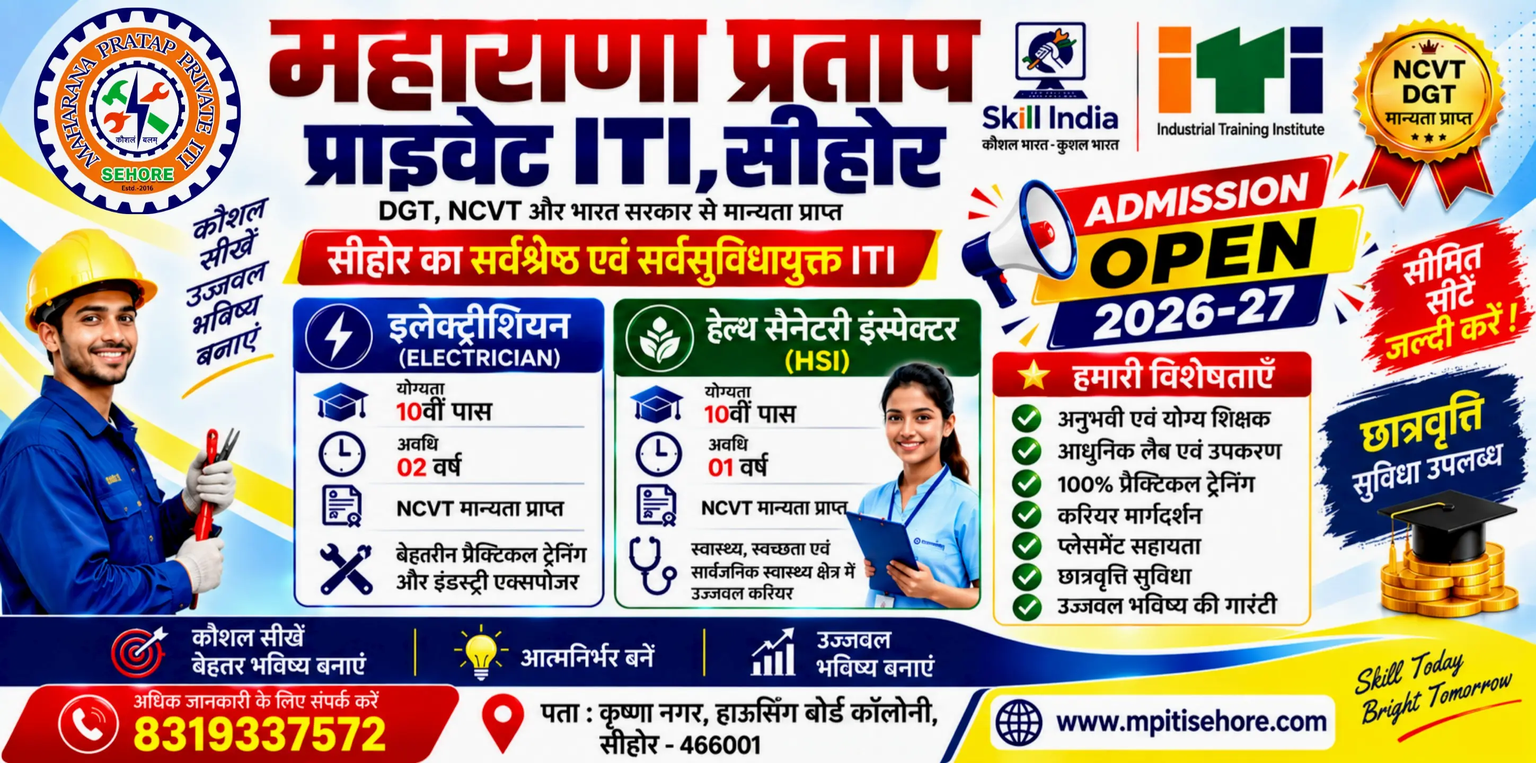
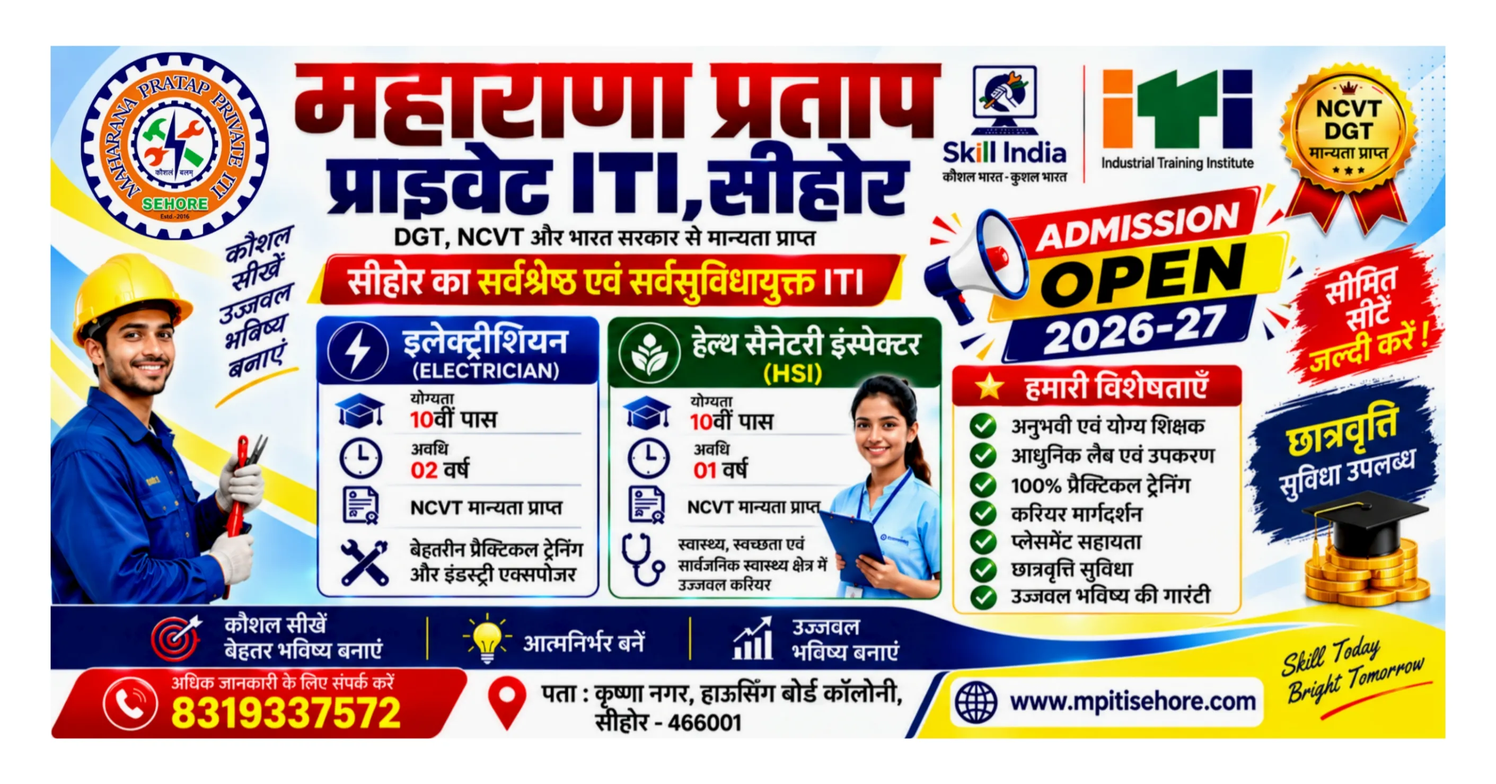
update website

diff --git a/index.html b/index.html
@@ -158,6 +158,10 @@
                 src="images/dgt 2.webp"
                 alt="Directorate General of Training"
             >
+             <img
+                src="images/ncvet-Logo.webp"
+                alt="Directorate General of Training"
+            >
 
         </div>
 
@@ -2013,8 +2017,14 @@
 
             <p>
                 <span>📍</span>
-                Krishna Nagar, Shanti Vihar Colony,
-                Housing Board Sehore, Madhya Pradesh
+                <a
+                        href="https://maps.app.goo.gl/kT3zE88vcfjoDDGWA"
+                        target="_blank"
+                        rel="noopener noreferrer"
+                        class="contact-detail-item"
+                    > Krishna Nagar, Shanti Vihar Colony,
+                Housing Board Sehore, Madhya Pradesh</a>
+                
             </p>
 
             <p>

diff --git a/pages/contact.html b/pages/contact.html
@@ -1014,8 +1014,12 @@
 
                 <p>
                     <span>📍</span>
-                    Krishna Nagar, Shanti Vihar Colony,
-                    Housing Board Sehore, Madhya Pradesh
+                                        <a href="https://maps.app.goo.gl/kT3zE88vcfjoDDGWA"
+                        target="_blank"
+                        rel="noopener noreferrer"
+                        class="contact-detail-item"
+                    > Krishna Nagar, Shanti Vihar Colony,
+                Housing Board Sehore, Madhya Pradesh</a>
                 </p>
 
                 <p>

diff --git a/pages/gallery.html b/pages/gallery.html
@@ -870,9 +870,12 @@ document.addEventListener("keydown", function(event) {
             <p>
 
                 <span>📍</span>
-
-                Krishna Nagar, Shanti Vihar Colony,
-                Housing Board Sehore, Madhya Pradesh
+                    <a href="https://maps.app.goo.gl/kT3zE88vcfjoDDGWA"
+                        target="_blank"
+                        rel="noopener noreferrer"
+                        class="contact-detail-item"
+                    > Krishna Nagar, Shanti Vihar Colony,
+                Housing Board Sehore, Madhya Pradesh</a>
 
             </p>
 

diff --git a/pages/computer-lab.html b/pages/computer-lab.html
@@ -746,8 +746,12 @@
 
                 <p>
                     <span>📍</span>
-                    Krishna Nagar, Shanti Vihar Colony,
-                    Housing Board Sehore, Madhya Pradesh
+                        <a href="https://maps.app.goo.gl/kT3zE88vcfjoDDGWA"
+                        target="_blank"
+                        rel="noopener noreferrer"
+                        class="contact-detail-item"
+                    > Krishna Nagar, Shanti Vihar Colony,
+                Housing Board Sehore, Madhya Pradesh</a>
                 </p>
 
                 <p>

diff --git a/pages/administrative-staff.html b/pages/administrative-staff.html
@@ -692,8 +692,12 @@
 
                 <p>
                     <span>📍</span>
-                    Krishna Nagar, Shanti Vihar Colony,
-                    Housing Board Sehore, Madhya Pradesh
+                    <a href="https://maps.app.goo.gl/kT3zE88vcfjoDDGWA"
+                        target="_blank"
+                        rel="noopener noreferrer"
+                        class="contact-detail-item"
+                    > Krishna Nagar, Shanti Vihar Colony,
+                Housing Board Sehore, Madhya Pradesh</a>
                 </p>
 
                 <p>

diff --git a/pages/non-technical-staff.html b/pages/non-technical-staff.html
@@ -620,8 +620,12 @@
 
                 <p>
                     <span>📍</span>
-                    Krishna Nagar, Shanti Vihar Colony,
-                    Housing Board Sehore, Madhya Pradesh
+                    <a href="https://maps.app.goo.gl/kT3zE88vcfjoDDGWA"
+                        target="_blank"
+                        rel="noopener noreferrer"
+                        class="contact-detail-item"
+                    > Krishna Nagar, Shanti Vihar Colony,
+                Housing Board Sehore, Madhya Pradesh</a>
                 </p>
 
                 <p>

diff --git a/pages/results.html b/pages/results.html
@@ -825,8 +825,12 @@
 
                 <p>
                     <span>📍</span>
-                    Krishna Nagar, Shanti Vihar Colony,
-                    Housing Board Sehore, Madhya Pradesh
+                    <a href="https://maps.app.goo.gl/kT3zE88vcfjoDDGWA"
+                        target="_blank"
+                        rel="noopener noreferrer"
+                        class="contact-detail-item"
+                    > Krishna Nagar, Shanti Vihar Colony,
+                Housing Board Sehore, Madhya Pradesh</a>
                 </p>
 
                 <p>

diff --git a/pages/sports-recreation.html b/pages/sports-recreation.html
@@ -696,8 +696,12 @@
 
                 <p>
                     <span>📍</span>
-                    Krishna Nagar, Shanti Vihar Colony,
-                    Housing Board Sehore, Madhya Pradesh
+                    <a href="https://maps.app.goo.gl/kT3zE88vcfjoDDGWA"
+                        target="_blank"
+                        rel="noopener noreferrer"
+                        class="contact-detail-item"
+                    > Krishna Nagar, Shanti Vihar Colony,
+                Housing Board Sehore, Madhya Pradesh</a>
                 </p>
 
                 <p>

diff --git a/pages/technical-staff.html b/pages/technical-staff.html
@@ -724,8 +724,12 @@
 
                 <p>
                     <span>📍</span>
-                    Krishna Nagar, Shanti Vihar Colony,
-                    Housing Board Sehore, Madhya Pradesh
+                    <a href="https://maps.app.goo.gl/kT3zE88vcfjoDDGWA"
+                        target="_blank"
+                        rel="noopener noreferrer"
+                        class="contact-detail-item"
+                    > Krishna Nagar, Shanti Vihar Colony,
+                Housing Board Sehore, Madhya Pradesh</a>
                 </p>
 
                 <p>

diff --git a/pages/trainee-records.html b/pages/trainee-records.html
@@ -1534,9 +1534,12 @@
                 <p>
 
                     <span>📍</span>
-
-                    Krishna Nagar, Shanti Vihar Colony,
-                    Housing Board Sehore, Madhya Pradesh
+                    <a href="https://maps.app.goo.gl/kT3zE88vcfjoDDGWA"
+                        target="_blank"
+                        rel="noopener noreferrer"
+                        class="contact-detail-item"
+                    > Krishna Nagar, Shanti Vihar Colony,
+                Housing Board Sehore, Madhya Pradesh</a>
 
                 </p>
 

diff --git a/pages/management.html b/pages/management.html
@@ -883,9 +883,12 @@
                 <span>
                     📍
                 </span>
-
-                Krishna Nagar, Shanti Vihar Colony,
-                Housing Board Sehore, Madhya Pradesh
+                    <a href="https://maps.app.goo.gl/kT3zE88vcfjoDDGWA"
+                        target="_blank"
+                        rel="noopener noreferrer"
+                        class="contact-detail-item"
+                    > Krishna Nagar, Shanti Vihar Colony,
+                Housing Board Sehore, Madhya Pradesh</a>
 
             </p>
 

diff --git a/pages/downloads.html b/pages/downloads.html
@@ -761,9 +761,12 @@
                 <p>
 
                     <span>📍</span>
-
-                    Krishna Nagar, Shanti Vihar Colony,
-                    Housing Board Sehore, Madhya Pradesh
+                    <a href="https://maps.app.goo.gl/kT3zE88vcfjoDDGWA"
+                        target="_blank"
+                        rel="noopener noreferrer"
+                        class="contact-detail-item"
+                    > Krishna Nagar, Shanti Vihar Colony,
+                Housing Board Sehore, Madhya Pradesh</a>
 
                 </p>
 
